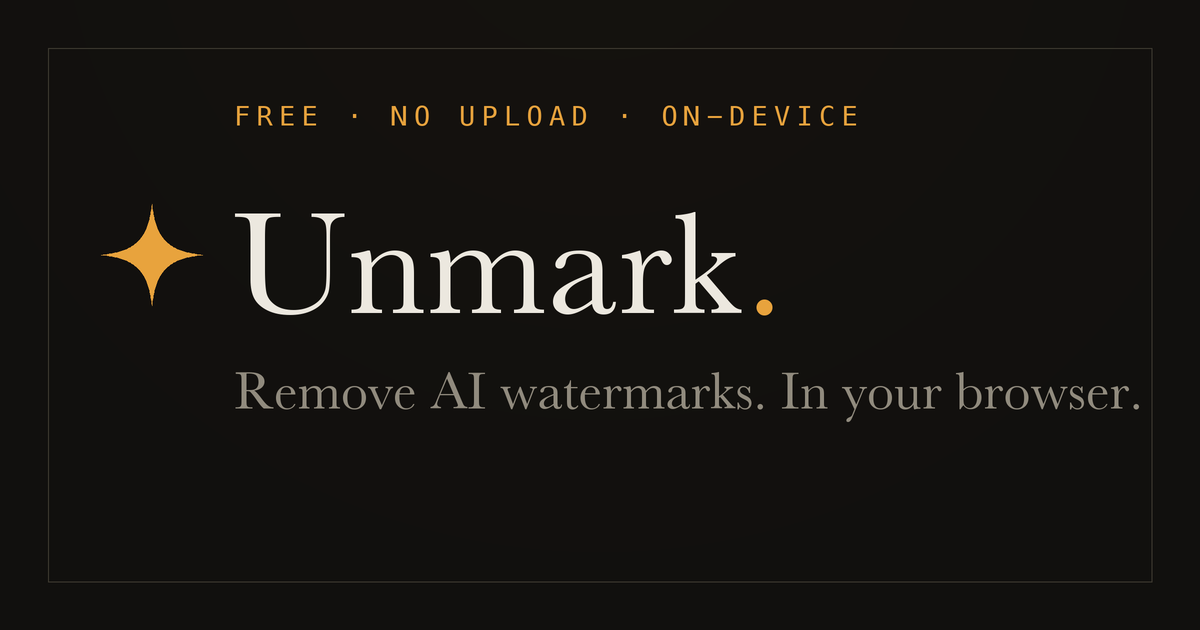
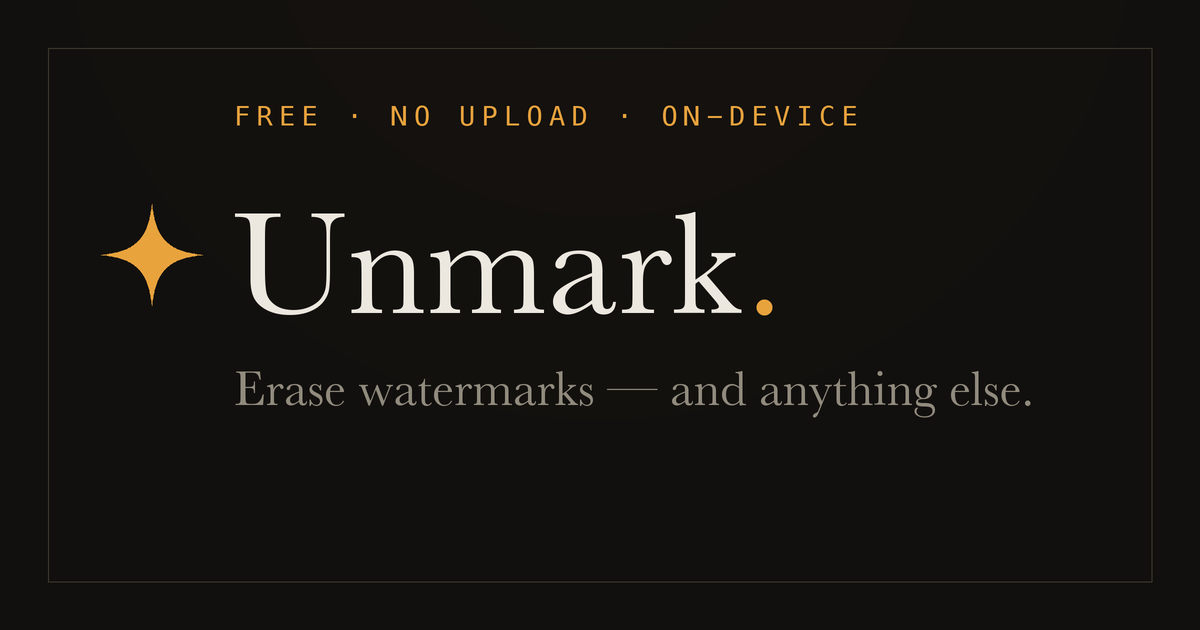
Broaden positioning: watermark remover & magic eraser
Lead the promise with "erase anything from a photo" while keeping
watermark removal as the #1 use case and intact in the SEO title and
keywords. Adds a use-cases section (objects, people, text, timestamps,
blemishes), broadened metadata/keywords/OG image, and a magic-eraser FAQ.

Changed region(s): [[0.185, 0.573, 0.9558, 0.6635]]

diff --git a/src/lib/content.ts b/src/lib/content.ts
@@ -1,7 +1,35 @@
 export const SITE_URL = 'https://unmark.live'
 export const SITE_NAME = 'Unmark'
 
-export const TAGLINE = 'Free AI watermark remover — in your browser'
+export const TAGLINE = 'Free AI watermark remover & magic eraser — in your browser'
+
+// What the inpainting brush can remove. Watermarks lead; the rest shows breadth.
+export const USE_CASES: { title: string; body: string }[] = [
+  {
+    title: 'AI watermarks',
+    body: 'The ✦ sparkle that Gemini, Nano Banana and other generators stamp on images — gone in one tap.',
+  },
+  {
+    title: 'Objects & clutter',
+    body: 'Power lines, signs, trash cans, a stray hand — brush over anything you wish weren’t in the frame.',
+  },
+  {
+    title: 'People & photobombers',
+    body: 'Wipe a stranger out of the background of an otherwise perfect shot.',
+  },
+  {
+    title: 'Text, logos & captions',
+    body: 'Stock-photo overlays, captions, brand marks and stamps lift cleanly off the image.',
+  },
+  {
+    title: 'Dates & timestamps',
+    body: 'Erase the orange camera date burned into old photos.',
+  },
+  {
+    title: 'Blemishes & spots',
+    body: 'Dust, sensor spots and small skin blemishes disappear into the background.',
+  },
+]
 
 export const STEPS: { n: string; title: string; body: string }[] = [
   {
@@ -11,8 +39,8 @@ export const STEPS: { n: string; title: string; body: string }[] = [
   },
   {
     n: '02',
-    title: 'The watermark is erased automatically',
-    body: 'Unmark masks the corner mark and rebuilds the pixels with a generative inpainting model. Brush over anything else you want gone.',
+    title: 'Erase what you don’t want',
+    body: 'The corner watermark is removed automatically. Brush over any other object, person or text to wipe it too.',
   },
   {
     n: '03',
@@ -28,18 +56,22 @@ export const REASONS: { title: string; body: string }[] = [
   },
   {
     title: 'Actually free',
-    body: 'No sign-up, no credits, no daily caps. Because removal runs on your device, there are no server bills to pass on.',
+    body: 'No sign-up, no credits, no daily caps. Because everything runs on your device, there are no server bills to pass on.',
   },
   {
     title: 'Studio quality',
-    body: 'A MI-GAN inpainting model reconstructs real texture instead of smearing a blur over the spot.',
+    body: 'A MI-GAN inpainting model rebuilds real texture behind whatever you erase, instead of smearing a blur over it.',
   },
 ]
 
 export const FAQ: { q: string; a: string }[] = [
   {
     q: 'Is Unmark free?',
-    a: 'Yes. Unmark is completely free with no sign-up, no credits and no daily limits. Because the watermark removal runs on your own device, there are no server costs to pass on.',
+    a: 'Yes. Unmark is completely free with no sign-up, no credits and no daily limits. Because everything runs on your own device, there are no server costs to pass on.',
+  },
+  {
+    q: 'Can Unmark remove objects and people, not just watermarks?',
+    a: 'Yes — Unmark is a full magic eraser. Brush over any object, person, sign, text or blemish and the model reconstructs the background behind it. Removing the corner watermark is just the one-tap default.',
   },
   {
     q: 'Are my images uploaded anywhere?',
@@ -59,6 +91,6 @@ export const FAQ: { q: string; a: string }[] = [
   },
   {
     q: 'Can I use it on any image?',
-    a: 'Use Unmark only on images you own or have the rights to edit. Removing watermarks from other people’s copyrighted work may be illegal.',
+    a: 'Use Unmark only on images you own or have the rights to edit. Removing watermarks or content from other people’s copyrighted work may be illegal.',
   },
 ]

diff --git a/src/app/layout.tsx b/src/app/layout.tsx
@@ -18,12 +18,12 @@ const mono = IBM_Plex_Mono({
 });
 
 const DESCRIPTION =
-  "Remove watermarks from images free, right in your browser. Unmark erases the AI sparkle from Gemini and Nano Banana, plus logos, text and timestamps — your photos never leave your device.";
+  "Erase anything from a photo, free and in your browser. Unmark removes AI watermarks from Gemini and Nano Banana, plus objects, people, text, logos and timestamps — your images never leave your device.";
 
 export const metadata: Metadata = {
   metadataBase: new URL(SITE_URL),
   title: {
-    default: "Unmark — Free AI Watermark Remover, In Your Browser",
+    default: "Unmark — Free AI Watermark Remover & Magic Eraser",
     template: "%s · Unmark",
   },
   description: DESCRIPTION,
@@ -37,8 +37,13 @@ export const metadata: Metadata = {
     "remove watermark from image",
     "free watermark remover",
     "online watermark remover",
-    "remove watermark online",
+    "magic eraser",
+    "AI object remover",
+    "remove object from photo",
+    "remove person from photo",
+    "remove text from image",
     "remove logo from photo",
+    "photo cleanup",
     "image inpainting",
   ],
   authors: [{ name: SITE_NAME }],
@@ -49,13 +54,13 @@ export const metadata: Metadata = {
     type: "website",
     url: SITE_URL,
     siteName: SITE_NAME,
-    title: "Unmark — Free AI Watermark Remover, In Your Browser",
+    title: "Unmark — Free AI Watermark Remover & Magic Eraser",
     description: DESCRIPTION,
     locale: "en_US",
   },
   twitter: {
     card: "summary_large_image",
-    title: "Unmark — Free AI Watermark Remover",
+    title: "Unmark — Free AI Watermark Remover & Magic Eraser",
     description: DESCRIPTION,
   },
   robots: {
@@ -79,9 +84,10 @@ const jsonLd = {
       offers: { "@type": "Offer", price: "0", priceCurrency: "USD" },
       featureList: [
         "Remove AI watermarks from images",
+        "Magic eraser brush for any unwanted object",
+        "Remove people, text, logos and timestamps from photos",
         "On-device processing — no uploads",
         "Automatic corner watermark removal",
-        "Manual brush for logos, text and objects",
       ],
     },
     {

diff --git a/src/app/page.tsx b/src/app/page.tsx
@@ -3,7 +3,7 @@
 import { useState } from 'react'
 import Dropzone from '@/components/Dropzone'
 import Editor from '@/components/Editor'
-import { STEPS, REASONS, FAQ } from '@/lib/content'
+import { USE_CASES, STEPS, REASONS, FAQ } from '@/lib/content'
 
 function Header({ onHome }: { onHome: () => void }) {
   return (
@@ -19,7 +19,7 @@ function Header({ onHome }: { onHome: () => void }) {
       >
         Unmark<span className="text-amber not-italic">.</span>
       </button>
-      <span className="label text-ink-faint hidden sm:block">on-device watermark eraser</span>
+      <span className="label text-ink-faint hidden sm:block">watermark remover · magic eraser</span>
     </header>
   )
 }
@@ -63,6 +63,21 @@ export default function Home() {
       {/* crawlable content below the fold */}
       <div className="px-6 pb-24">
         <div className="mx-auto w-full max-w-3xl">
+          <Section kicker="more than watermarks" title="Erase anything from a photo">
+            <div className="mt-10 grid gap-px sm:grid-cols-2 lg:grid-cols-3" style={{ background: 'var(--line)' }}>
+              {USE_CASES.map((u) => (
+                <div key={u.title} className="bg-bg p-6">
+                  <h3 className="text-ink" style={{ fontSize: 15, fontWeight: 500 }}>
+                    {u.title}
+                  </h3>
+                  <p className="mt-3 text-ink-dim" style={{ fontSize: 14, lineHeight: 1.6 }}>
+                    {u.body}
+                  </p>
+                </div>
+              ))}
+            </div>
+          </Section>
+
           <Section kicker="how it works" title="Remove a watermark in three steps">
             <ol className="mt-10 grid gap-px sm:grid-cols-3" style={{ background: 'var(--line)' }}>
               {STEPS.map((s) => (

diff --git a/src/components/Dropzone.tsx b/src/components/Dropzone.tsx
@@ -64,7 +64,7 @@ export default function Dropzone({ onFile }: { onFile: (file: File) => void }) {
           ✦
         </span>
         <span className="label mt-8 block text-ink-dim">
-          Free AI watermark remover · in your browser
+          Free AI watermark remover &amp; magic eraser · in your browser
         </span>
         <h1
           className="mt-4 text-ink"
@@ -78,7 +78,7 @@ export default function Dropzone({ onFile }: { onFile: (file: File) => void }) {
           drop an image — click to browse — or paste
         </span>
         <span className="label mt-3 block text-ink-faint">
-          the watermark is removed automatically · nothing is uploaded
+          watermarks, objects, people, text — brushed away · nothing is uploaded
         </span>
       </label>
     </div>

diff --git a/src/components/Editor.tsx b/src/components/Editor.tsx
@@ -310,7 +310,7 @@ export default function Editor({
   const status = busy
     ? 'removing watermark…'
     : eraseCount > 0
-      ? 'watermark removed — brush to refine, or save your image'
+      ? 'watermark removed — brush over anything else, or save your image'
       : model.state === 'error'
         ? 'model unavailable'
         : model.state === 'ready'
